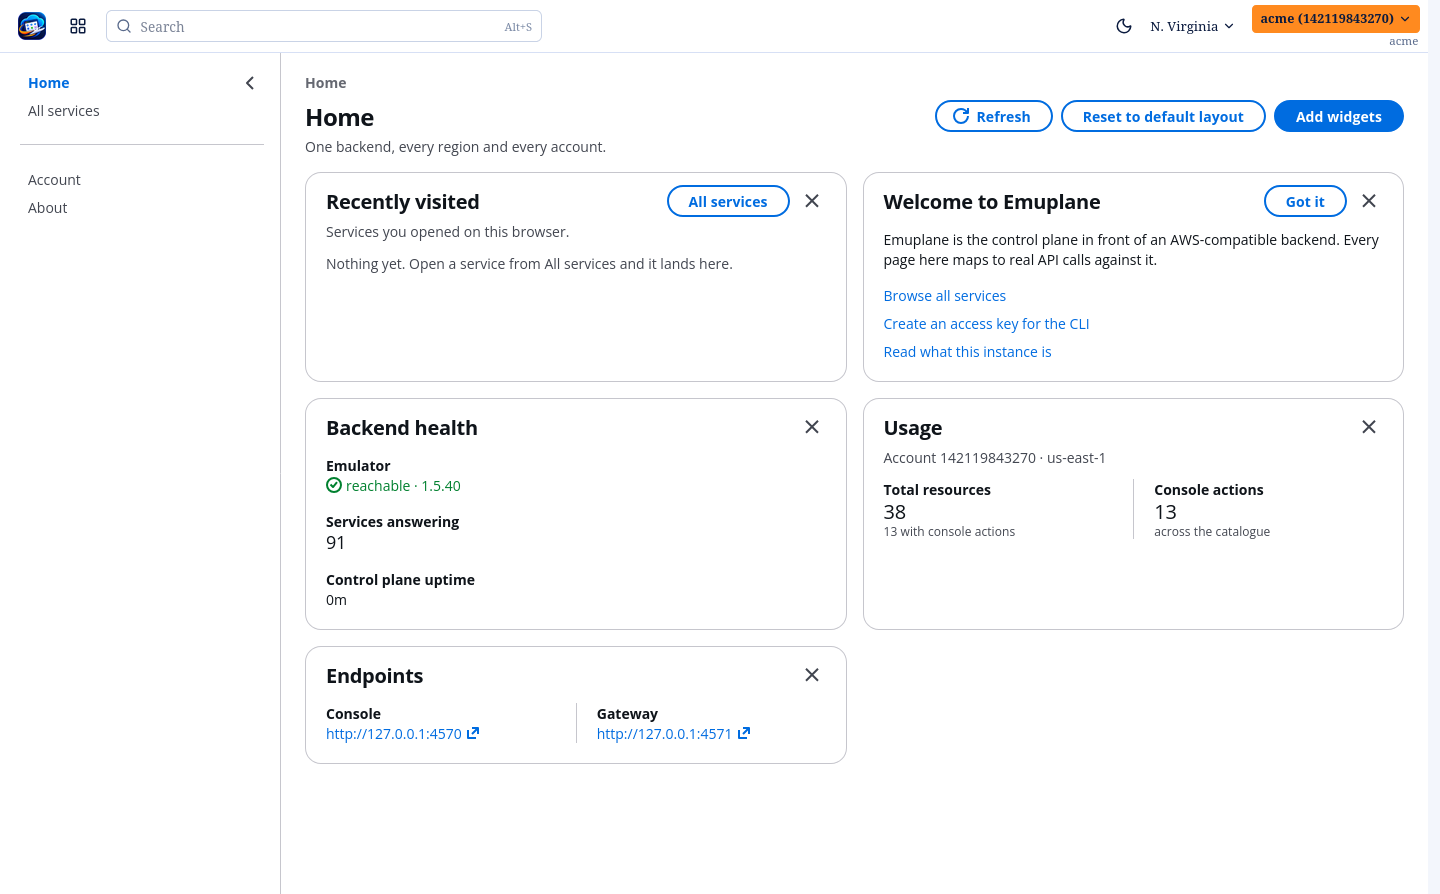
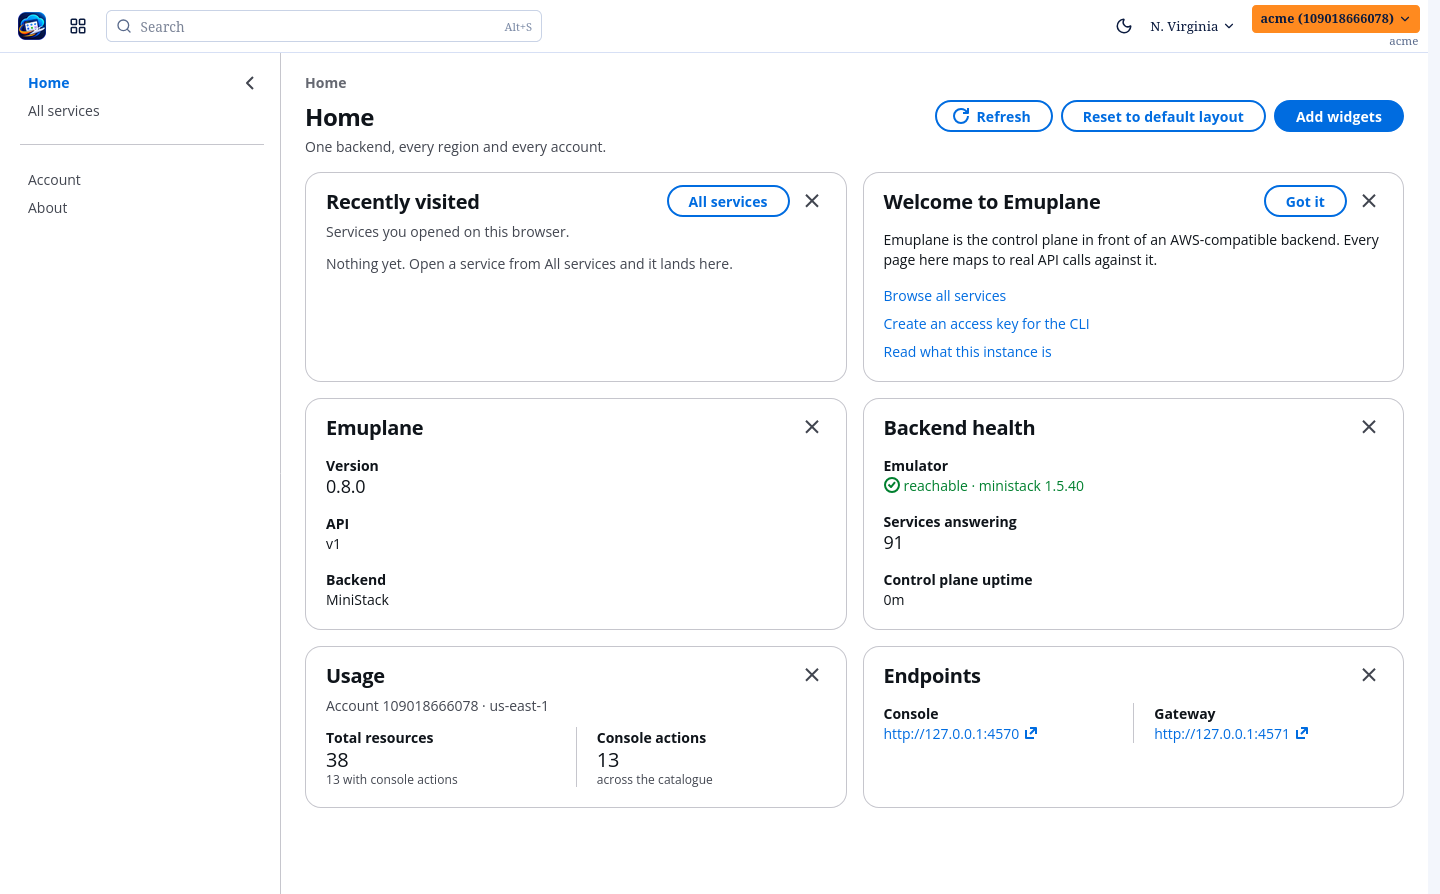
feat(console): an Emuplane widget on Home, and the backend named beside the emulator version (#280)

diff --git a/web/src/pages/Dashboard.jsx b/web/src/pages/Dashboard.jsx
@@ -27,6 +27,7 @@ const HIDDEN_KEY = 'emuplane:widgets:hidden'
 const WIDGETS = [
   { id: 'recent', title: 'Recently visited' },
   { id: 'welcome', title: 'Welcome to Emuplane' },
+  { id: 'emuplane', title: 'Emuplane' },
   { id: 'health', title: 'Backend health' },
   { id: 'usage', title: 'Usage' },
   { id: 'endpoints', title: 'Endpoints' },
@@ -282,6 +283,35 @@ export default function Dashboard() {
               </Widget>
             )}
 
+            {show('emuplane') && (
+              <Widget
+                title="Emuplane"
+                actions={
+                  <Button
+                    variant="icon"
+                    iconName="close"
+                    ariaLabel="Remove this widget"
+                    onClick={() => hide('emuplane')}
+                  />
+                }
+              >
+                <SpaceBetween size="m">
+                  <div>
+                    <Box variant="awsui-key-label">Version</Box>
+                    <Box fontSize="heading-m">{meta?.version || 'dev'}</Box>
+                  </div>
+                  <div>
+                    <Box variant="awsui-key-label">API</Box>
+                    <Box>{meta?.api_version || 'v1'}</Box>
+                  </div>
+                  <div>
+                    <Box variant="awsui-key-label">Backend</Box>
+                    <Box>{meta?.backend || '—'}</Box>
+                  </div>
+                </SpaceBetween>
+              </Widget>
+            )}
+
             {show('health') && (
               <Widget
                 title="Backend health"
@@ -301,7 +331,7 @@ export default function Dashboard() {
                       type={emulator.reachable ? 'success' : 'error'}
                     >
                       {emulator.reachable
-                        ? `reachable · ${emulator.version || '?'}`
+                        ? `reachable · ${meta?.backend_id || 'emulator'} ${emulator.version || '?'}`
                         : 'unreachable'}
                     </StatusIndicator>
                   </div>

diff --git a/tests/web/smoke.test.jsx b/tests/web/smoke.test.jsx
@@ -23,6 +23,21 @@ describe('console', () => {
     expect(screen.getAllByText('us-east-1', { exact: false }).length).toBeGreaterThan(0)
   })
 
+  it('names the Emuplane version, and which backend answers beside the emulator version', async () => {
+    const original = RESPONSES['/api/nodes']
+    RESPONSES['/api/nodes'] = [{ health: { reachable: true, version: '1.5.40' } }]
+    try {
+      renderAt(<App />)
+
+      expect(await screen.findByText('0.7.0')).toBeTruthy()
+      // The backend id comes before the emulator's own version, so a second profile
+      // reads differently without the panel changing shape.
+      expect(await screen.findByText('reachable · ministack 1.5.40')).toBeTruthy()
+    } finally {
+      RESPONSES['/api/nodes'] = original
+    }
+  })
+
   it('says Copied after copying the account ID', async () => {
     Object.assign(navigator, {
       clipboard: { writeText: () => Promise.resolve() },

diff --git a/site/docs/intro.md b/site/docs/intro.md
@@ -35,11 +35,12 @@ flowchart LR
 Nothing is seeded. The first account is made at `/signup`, and the deployment's
 bearer token is minted once inside the container (`python /app/api_token.py`).
 
-![The console after sign-in: every page is a read against the emulator](/img/console/bucket-objects.png)
+![Console Home: the Emuplane version, the emulator it fronts, the account's usage and the endpoints](/img/console/console-home.png)
 
 <figure>
-  <figcaption>The console is not a mock-up of AWS: each panel is a call the
-  control plane made as the account's root, with what the emulator answered.</figcaption>
+  <figcaption>Not a mock-up of AWS: each panel is a call the control plane made as the
+  account's root, with what the emulator answered — and the version this build is
+  running.</figcaption>
 </figure>
 
 ## What it is not
